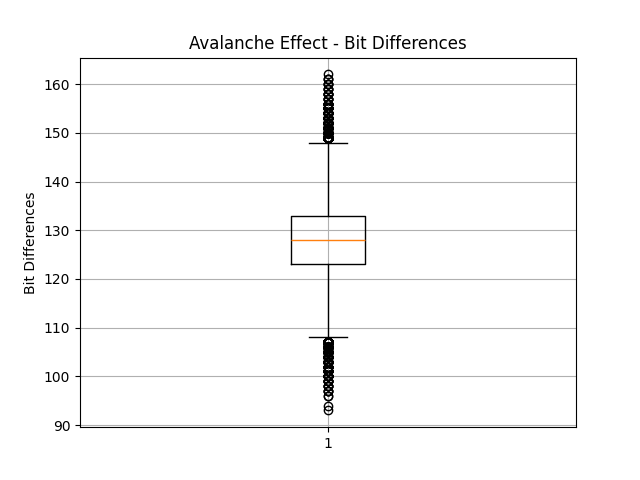
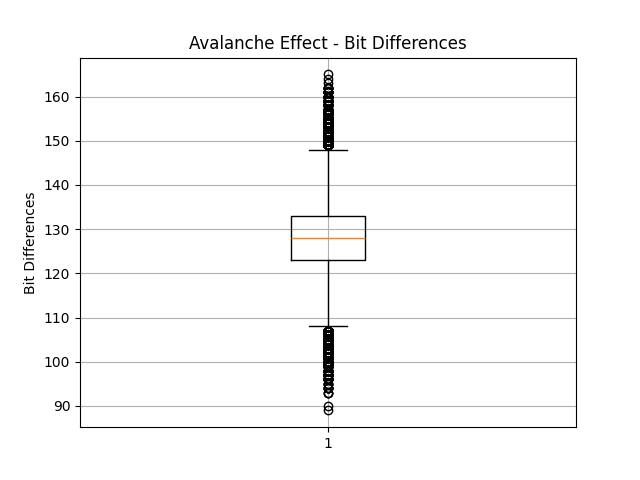
1mil

diff --git a/backend/test.py b/backend/test.py
@@ -65,4 +65,4 @@ def run_all_tests(num_samples=1000, num_buckets=64):
     plt.close()
 
 if __name__ == "__main__":
-    run_all_tests(num_samples=100000)
+    run_all_tests(num_samples=1000000)
